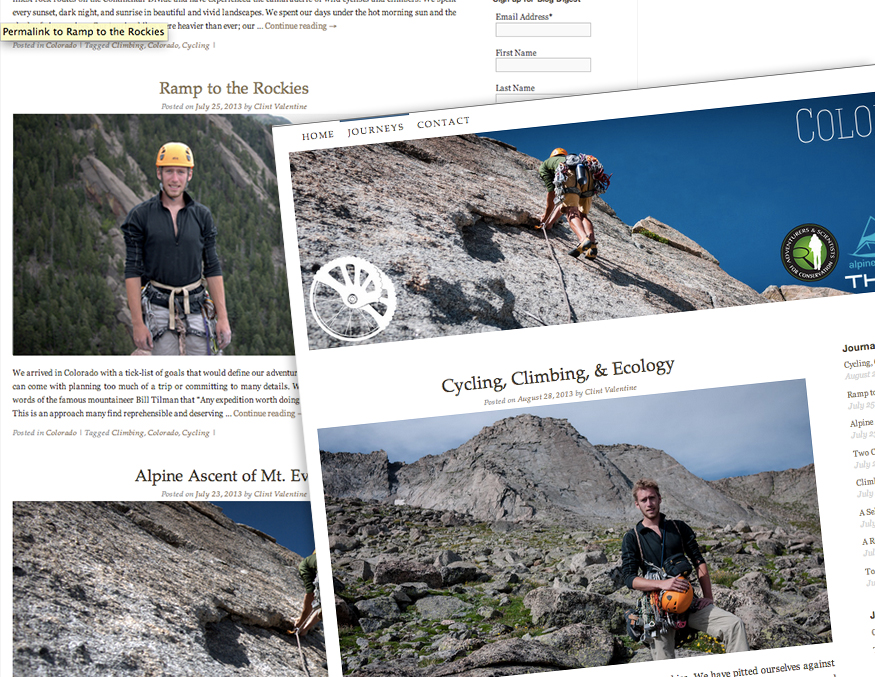
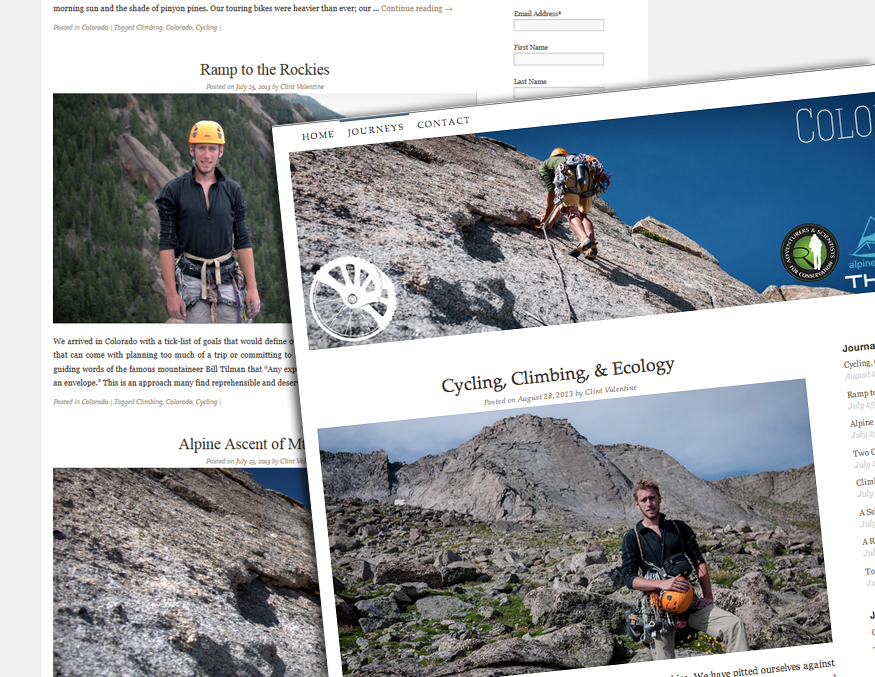
Style work and post images

Changed region(s): [[0.0, 0.0, 0.7406, 1.0], [0.7406, 0.062, 1.0, 0.1241]]

diff --git a/index.html b/index.html
@@ -135,7 +135,7 @@ http://mixitup.io
 				<li class="mix mix_all web" style="background-image: url('images/thumbs/texturetechnologies.png');"         data-cat="1"><span><a href="#post/texturetechnologies">TextureTechnologies.com</a></span></li>
 				<li class="mix mix_all design" style="background-image: url('images/thumbs/quoth-the-raver.png');"         data-cat="1"><span><a href="#post/quoth-the-raver">QuoththeRaver.com</a></span></li>
 				<li class="mix mix_all web design" style="background-image: url('images/thumbs/clintvalentine.png');"         data-cat="1"><span><a href="#post/clintvalentine">ClintValentine.com</a></span></li>
-				<li class="mix mix_all design" style="background-image: url('images/thumbs/firebrand-innovations.png');"         data-cat="1"><span><a href="#post/firebrand-innovations.png">FirebrandInnovations.com</a></span></li>
+				<li class="mix mix_all design" style="background-image: url('images/thumbs/firebrand-innovations.png');"         data-cat="1"><span><a href="#post/firebrand-innovations">FirebrandInnovations.com</a></span></li>
 				<li class="mix mix_all graphic" style="background-image: url('images/thumbs/logos.png');"     data-cat="1"><span><a href="#post/logos">Branding Design</a></span></li>
 				<li class="mix mix_all graphic" style="background-image: url('images/thumbs/print.png');"     data-cat="1"><span><a href="#post/print">Print Designs</a></span></li>
 				<li class="mix mix_all web design" style="background-image: url('images/thumbs/salem-state.png');"         data-cat="1"><span><a href="#post/salem-state">Salem State Web Design</a></span></li>
@@ -147,7 +147,7 @@ http://mixitup.io
 				<li class="mix mix_all programming" style="background-image: url('images/thumbs/quadcopter.png');" data-cat="1"><span><a href="#post/quadcopter">Quadcopter Project</a></span></li>
 				<li class="mix mix_all web" style="background-image: url('images/thumbs/quadcopter-docs.png');"         data-cat="1"><span><a href="#post/quadcopter-docs">Quadcopter Documentation</a></span></li>
 				<li class="mix mix_all web" style="background-image: url('images/thumbs/b2q-associates.png');" data-cat="1"><span><a href="#post/b2q-associates">B2Q Associates.com</a></span></li>
-				<li class="mix mix_all photography" style="background-image: url('images/thumbs/wheat-marketing.png');" data-cat="1"><span><a href="#post/wheat-marketing-center.png">Wheat Marketing Center</a></span></li>
+				<li class="mix mix_all photography" style="background-image: url('images/thumbs/wheat-marketing.png');" data-cat="1"><span><a href="#post/wheat-marketing-center">Wheat Marketing Center</a></span></li>
 
 				<li class="gap"></li> <!-- "gap" elements fill in the gaps in justified grid -->
 			</ul>

diff --git a/css/styles.css b/css/styles.css
@@ -56,7 +56,7 @@ body {
 	font-family: 'Open Sans';
 }
 .wrapper {
-	margin: 50px auto 0 auto;
+	margin: 30px auto 0 auto;
 	max-width: 875px;
 }
 h1 {
@@ -68,6 +68,9 @@ h1 strong {
 h2 {
 	width: 750px;
 	margin: 0 auto;
+}
+.post h2 {
+	text-align: center;
 }
 h3 {
 	margin-bottom: 20px;
